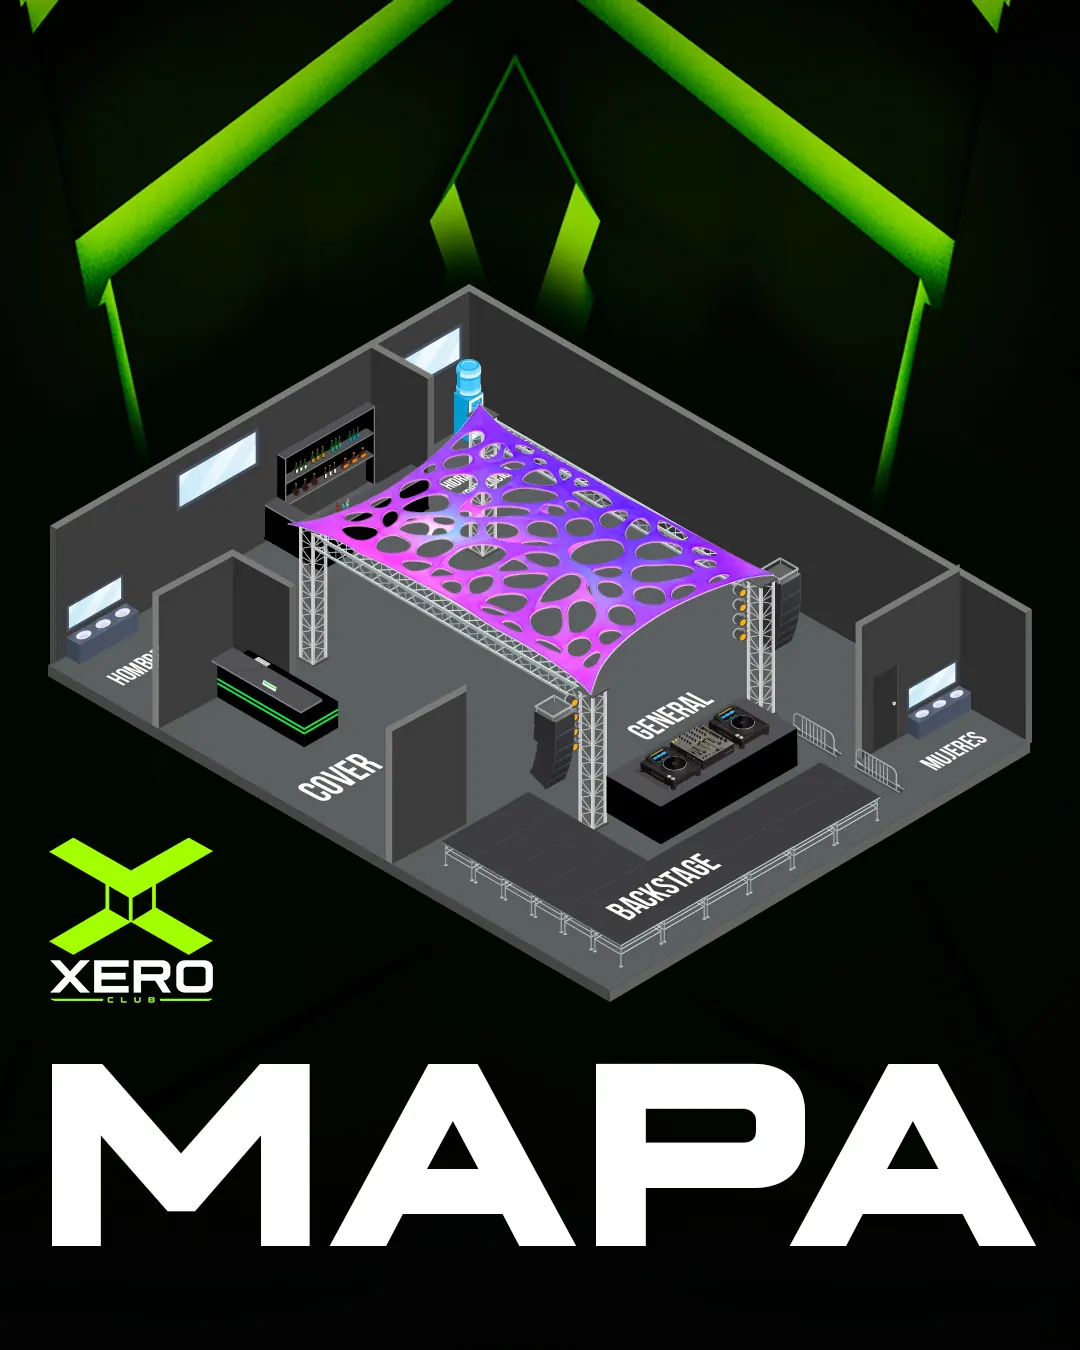
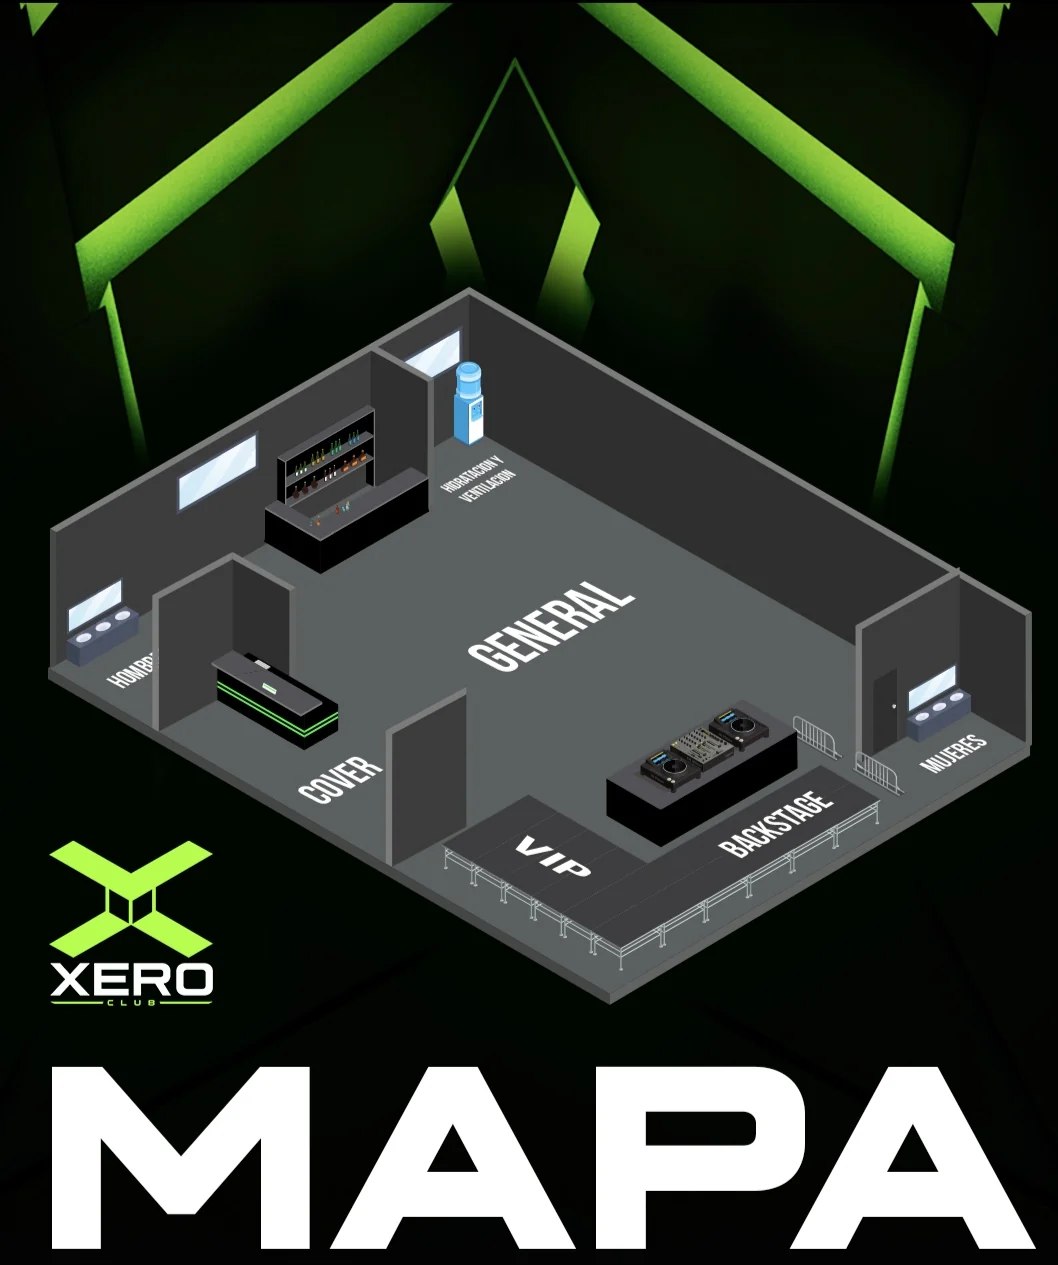
Medellín: mapa nuevo de Xero Club y zonas actualizadas
Claude-Session: https://claude.ai/code/session_01DF6GzRShhTvKXsRwH39geB

diff --git a/eventos-hub/eventos/medellin-2016.html b/eventos-hub/eventos/medellin-2016.html
@@ -445,16 +445,17 @@ j=d.createElement(s),dl=l!='dataLayer'?'&l='+l:'';j.async=true;j.src=
       <span class="mono mapa-label">El lugar</span>
       <h2 class="mapa-title">Así es <span>Xero Club</span></h2>
       <ol class="zonas">
-        <li><b>Cover</b><span>Entrada y control de ingreso.</span></li>
-        <li><b>General</b><span>La pista, frente a la cabina del DJ.</span></li>
-        <li><b>VIP</b><span>Tarima VIP, con $20K en consumo y shot de bienvenida.</span></li>
-        <li><b>Backstage</b><span>Junto al DJ, con $20K en consumo y shot de bienvenida.</span></li>
-        <li><b>Barra</b><span>Al fondo, junto a la pista.</span></li>
-        <li><b>Baños</b><span>Hombres y mujeres, a cada lado.</span></li>
+        <li><b>Cover</b><span>Entrada y control de ingreso, a la izquierda.</span></li>
+        <li><b>General</b><span>La pista central, frente a la cabina del DJ.</span></li>
+        <li><b>VIP</b><span>Tarima al frente, junto a la cabina, con $20K en consumo y shot de bienvenida.</span></li>
+        <li><b>Backstage</b><span>Tarima pegada a la cabina del DJ, con $20K en consumo y shot de bienvenida.</span></li>
+        <li><b>Barra</b><span>Al fondo, a la izquierda de la pista.</span></li>
+        <li><b>Hidratación</b><span>Punto de agua y ventilación al fondo, junto a la barra.</span></li>
+        <li><b>Baños</b><span>Hombres a la izquierda y mujeres a la derecha.</span></li>
       </ol>
     </div>
     <figure class="mapa-img reveal">
-      <a href="../../edc-preparty/ASSETS/eos-medellin-mapa.webp" target="_blank" rel="noopener" data-track="eosmde_mapa"><img src="../../edc-preparty/ASSETS/eos-medellin-mapa.webp" width="1080" height="1350" loading="lazy" decoding="async" alt="Mapa de Xero Club: entrada por el Cover, pista General frente a la cabina del DJ bajo la estructura de luces, Backstage en la tarima, barra al fondo y baños de hombres y mujeres a los lados."></a>
+      <a href="../../edc-preparty/ASSETS/eos-medellin-mapa.webp?v=2" target="_blank" rel="noopener" data-track="eosmde_mapa"><img src="../../edc-preparty/ASSETS/eos-medellin-mapa.webp?v=2" width="1058" height="1265" loading="lazy" decoding="async" alt="Mapa de Xero Club: Cover a la entrada a la izquierda, pista General en el centro, cabina del DJ al frente con las tarimas VIP y Backstage, barra y punto de hidratación al fondo, baños de hombres a la izquierda y de mujeres a la derecha."></a>
       <figcaption class="mono">Toca para ver en grande</figcaption>
     </figure>
   </div>
